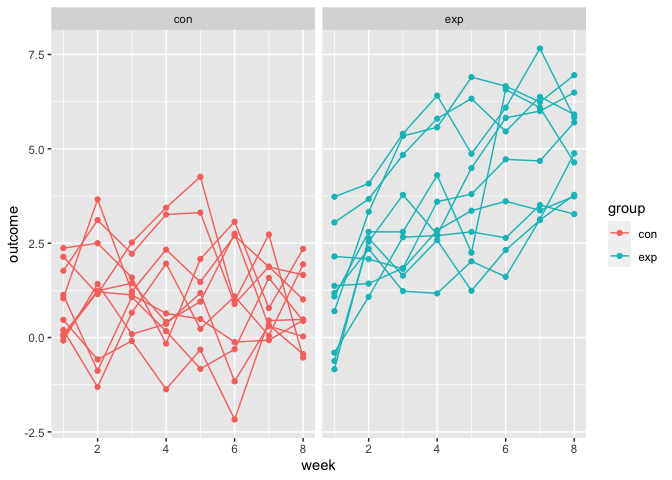
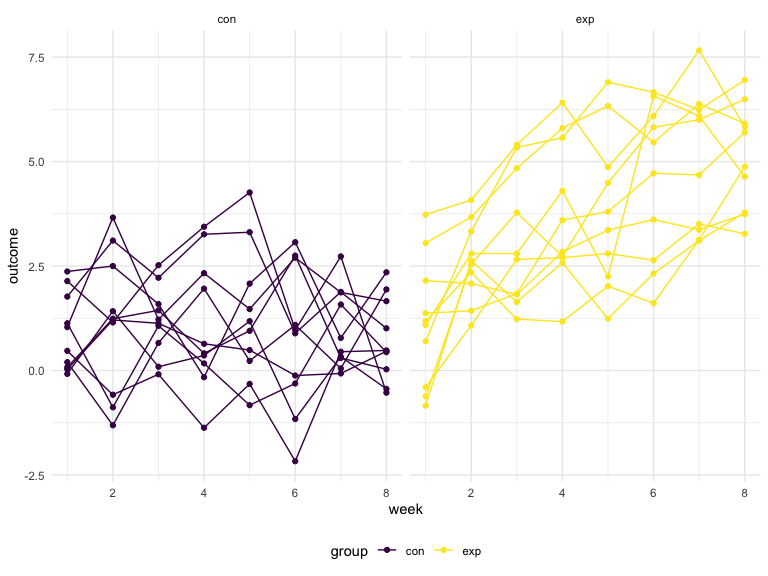
create graph for problem 2

diff --git a/p8105_hw5_pc2979.md b/p8105_hw5_pc2979.md
@@ -6,6 +6,24 @@ HW5
 ``` r
 library(tidyverse)
 library(rvest)
+
+knitr::opts_chunk$set(
+    echo = TRUE,
+    warning = FALSE,
+    fig.width = 8, 
+  fig.height = 6,
+  out.width = "90%"
+)
+
+theme_set(theme_minimal() + theme(legend.position = "bottom"))
+
+options(
+  ggplot2.continuous.colour = "viridis",
+  ggplot2.continuous.fill = "viridis"
+)
+
+scale_colour_discrete = scale_colour_viridis_d
+scale_fill_discrete = scale_fill_viridis_d
 ```
 
 ## Question 1
@@ -22,9 +40,6 @@ df <-
   mutate(data = map(path, read_csv)) %>%
   unnest()
 ```
-
-    ## Warning: `cols` is now required when using unnest().
-    ## Please use `cols = c(data)`
 
 Clean data
 
@@ -53,11 +68,11 @@ tidydf %>%
   facet_grid(~group)
 ```
 
-![](p8105_hw5_pc2979_files/figure-gfm/unnamed-chunk-4-1.png)<!-- --> The
-graph suggests that outcomes are highly correlated within each group -
-the outcome of those in the experimental arm are more likely to trend
-upward over time while the outcome of those in the control arm vary over
-time.
+<img src="p8105_hw5_pc2979_files/figure-gfm/unnamed-chunk-4-1.png" width="90%" />
+The graph suggests that outcomes are highly correlated within each
+group - the outcome of those in the experimental arm are more likely to
+trend upward over time while the outcome of those in the control arm
+vary over time.
 
 ## Question 2
 
@@ -130,110 +145,68 @@ post_nest <-
 ```
 
 Use `map2` to estimate proportion of unsolved homicides in Baltimore, MD
-and pull out relevant information into a tibble.
+and pull out estimate and 95% CI into a tibble.
 
 ``` r
-post_nest %>%
+balti_hom <- 
+  post_nest %>%
   filter(city_state == "Baltimore, MD") %>%
   mutate(prop_test = map2(n_unsolved, n_homicide, ~prop.test(.x,.y, conf.level = 0.95) %>%
                             broom::tidy())) %>% 
   unnest(prop_test) %>%
   select(city_state, estimate, "CI_lower" = conf.low, "CI_upper" = conf.high) %>%
   knitr::kable(digits = 2)
+
+balti_hom
 ```
 
 | city_state    | estimate | CI_lower | CI_upper |
 |:--------------|---------:|---------:|---------:|
 | Baltimore, MD |     0.65 |     0.63 |     0.66 |
 
+Use `map2` to estimate proportion of unsolved homicides in all cities
+and pull estimate and 95% CI into a tibble.
+
 ``` r
-post_nest %>%
+all_hom <-
+  post_nest %>%
   mutate(prop_test = map2(n_unsolved, n_homicide, ~prop.test(.x,.y, conf.level = 0.95) %>%
                             broom::tidy())) %>% 
   unnest(prop_test) %>%
-  select(city_state, estimate, "CI_lower" = conf.low, "CI_upper" = conf.high) %>%
-  knitr::kable(digits = 2)
+  select(city_state, estimate, "ci_lower" = conf.low, "ci_upper" = conf.high)
+
+all_hom
 ```
 
-| city_state         | estimate | CI_lower | CI_upper |
-|:-------------------|---------:|---------:|---------:|
-| Albuquerque, NM    |     0.39 |     0.34 |     0.44 |
-| Atlanta, GA        |     0.38 |     0.35 |     0.41 |
-| Baltimore, MD      |     0.65 |     0.63 |     0.66 |
-| Baton Rouge, LA    |     0.46 |     0.41 |     0.51 |
-| Birmingham, AL     |     0.43 |     0.40 |     0.47 |
-| Boston, MA         |     0.50 |     0.46 |     0.55 |
-| Buffalo, NY        |     0.61 |     0.57 |     0.65 |
-| Charlotte, NC      |     0.30 |     0.27 |     0.34 |
-| Chicago, IL        |     0.74 |     0.72 |     0.75 |
-| Cincinnati, OH     |     0.45 |     0.41 |     0.48 |
-| Columbus, OH       |     0.53 |     0.50 |     0.56 |
-| Dallas, TX         |     0.48 |     0.46 |     0.51 |
-| Denver, CO         |     0.54 |     0.48 |     0.60 |
-| Detroit, MI        |     0.59 |     0.57 |     0.61 |
-| Durham, NC         |     0.37 |     0.31 |     0.43 |
-| Fort Worth, TX     |     0.46 |     0.42 |     0.51 |
-| Fresno, CA         |     0.35 |     0.31 |     0.39 |
-| Houston, TX        |     0.51 |     0.49 |     0.53 |
-| Indianapolis, IN   |     0.45 |     0.42 |     0.48 |
-| Jacksonville, FL   |     0.51 |     0.48 |     0.54 |
-| Kansas City, MO    |     0.41 |     0.38 |     0.44 |
-| Las Vegas, NV      |     0.41 |     0.39 |     0.44 |
-| Long Beach, CA     |     0.41 |     0.36 |     0.46 |
-| Los Angeles, CA    |     0.49 |     0.47 |     0.51 |
-| Louisville, KY     |     0.45 |     0.41 |     0.49 |
-| Memphis, TN        |     0.32 |     0.30 |     0.34 |
-| Miami, FL          |     0.60 |     0.57 |     0.64 |
-| Milwaukee, wI      |     0.36 |     0.33 |     0.39 |
-| Minneapolis, MN    |     0.51 |     0.46 |     0.56 |
-| Nashville, TN      |     0.36 |     0.33 |     0.40 |
-| New Orleans, LA    |     0.65 |     0.62 |     0.67 |
-| New York, NY       |     0.39 |     0.35 |     0.43 |
-| Oakland, CA        |     0.54 |     0.50 |     0.57 |
-| Oklahoma City, OK  |     0.49 |     0.45 |     0.52 |
-| Omaha, NE          |     0.41 |     0.37 |     0.46 |
-| Philadelphia, PA   |     0.45 |     0.43 |     0.47 |
-| Phoenix, AZ        |     0.55 |     0.52 |     0.58 |
-| Pittsburgh, PA     |     0.53 |     0.49 |     0.57 |
-| Richmond, VA       |     0.26 |     0.22 |     0.31 |
-| San Antonio, TX    |     0.43 |     0.39 |     0.46 |
-| Sacramento, CA     |     0.37 |     0.32 |     0.42 |
-| Savannah, GA       |     0.47 |     0.40 |     0.53 |
-| San Bernardino, CA |     0.62 |     0.56 |     0.68 |
-| San Diego, CA      |     0.38 |     0.34 |     0.43 |
-| San Francisco, CA  |     0.51 |     0.47 |     0.55 |
-| St. Louis, MO      |     0.54 |     0.52 |     0.56 |
-| Stockton, CA       |     0.60 |     0.55 |     0.64 |
-| Tampa, FL          |     0.46 |     0.39 |     0.53 |
-| Tulsa, OK          |     0.33 |     0.29 |     0.37 |
-| Washington, DC     |     0.44 |     0.41 |     0.46 |
+    ## # A tibble: 50 × 4
+    ##    city_state      estimate ci_lower ci_upper
+    ##    <chr>              <dbl>    <dbl>    <dbl>
+    ##  1 Albuquerque, NM    0.386    0.337    0.438
+    ##  2 Atlanta, GA        0.383    0.353    0.415
+    ##  3 Baltimore, MD      0.646    0.628    0.663
+    ##  4 Baton Rouge, LA    0.462    0.414    0.511
+    ##  5 Birmingham, AL     0.434    0.399    0.469
+    ##  6 Boston, MA         0.505    0.465    0.545
+    ##  7 Buffalo, NY        0.612    0.569    0.654
+    ##  8 Charlotte, NC      0.300    0.266    0.336
+    ##  9 Chicago, IL        0.736    0.724    0.747
+    ## 10 Cincinnati, OH     0.445    0.408    0.483
+    ## # … with 40 more rows
+
+Create plot showing proportion and 95% CI of unsolved homicides for each
+city
 
 ``` r
-# 
-# post_nest %>% 
-#   select(-data) %>%
-#   prop.test(x = .$n_unsolved, n = .$n_homicide)
-# 
-# 
-#   select(-data) %>%
-#   prop.test(x = .$n_unsolved, n = .$n_homicide)
-# 
-# length(post_nest$n_homicide)
-#   
-#   prop.test(x = c(.$n_unsolved, .$n_solved), 
-#             n = c(rep(.$n_homicide, length(.$n_homicide)),
-#                   rep(.$n_homicide, length(.$n_homicide))),
-#             conf.level = 0.95)
+all_hom %>%
+  ggplot(aes(x = reorder(city_state, -estimate), y = estimate)) +
+  geom_errorbar(aes(ymin = ci_lower, ymax = ci_upper), width = 0.5, alpha = 0.7) +
+  labs(
+    title = "Proportion of Unsolved Homicides Across 50 US Cities",
+    x = "City, State",
+    y = "Proportion"
+  ) +
+  theme(text = element_text (size = 6),
+        axis.text.x = element_text(angle = 90))
 ```
 
-``` r
-# sim_mean_sd = function(n_obs, mu = 7, sigma = 4) {
-#   
-#   x = rnorm(n = n_obs, mean = mu, sd = sigma)
-#   tibble(
-#     mu_hat = mean(x),
-#     sigma_hat = sd(x)
-#   )
-#   
-# }
-```
+<img src="p8105_hw5_pc2979_files/figure-gfm/unnamed-chunk-9-1.png" width="90%" />
